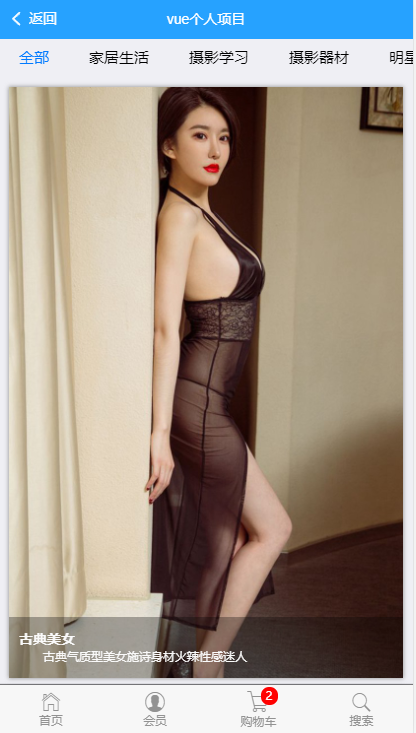
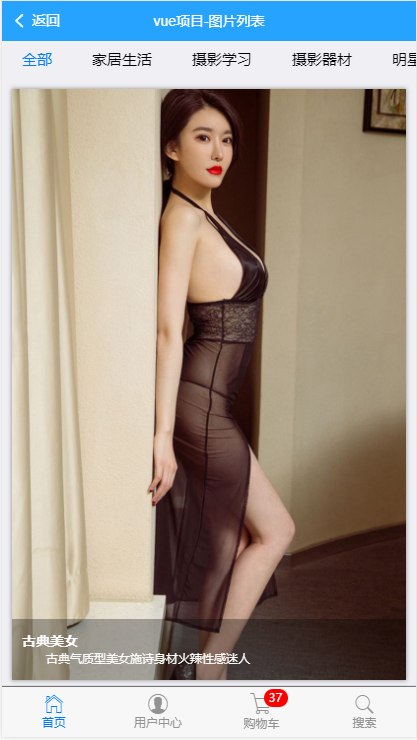
'更新展现图'

diff --git a/README.md b/README.md
@@ -282,3 +282,5 @@ axios.defaults.baseURL = 'http://192.168.1.107/'
 ![5](./vueImg/5.png)
 ![6](./vueImg/6.png)
 ![7](./vueImg/7.png)
+![8](./vueImg/8.png)
+![9](./vueImg/9.png)
